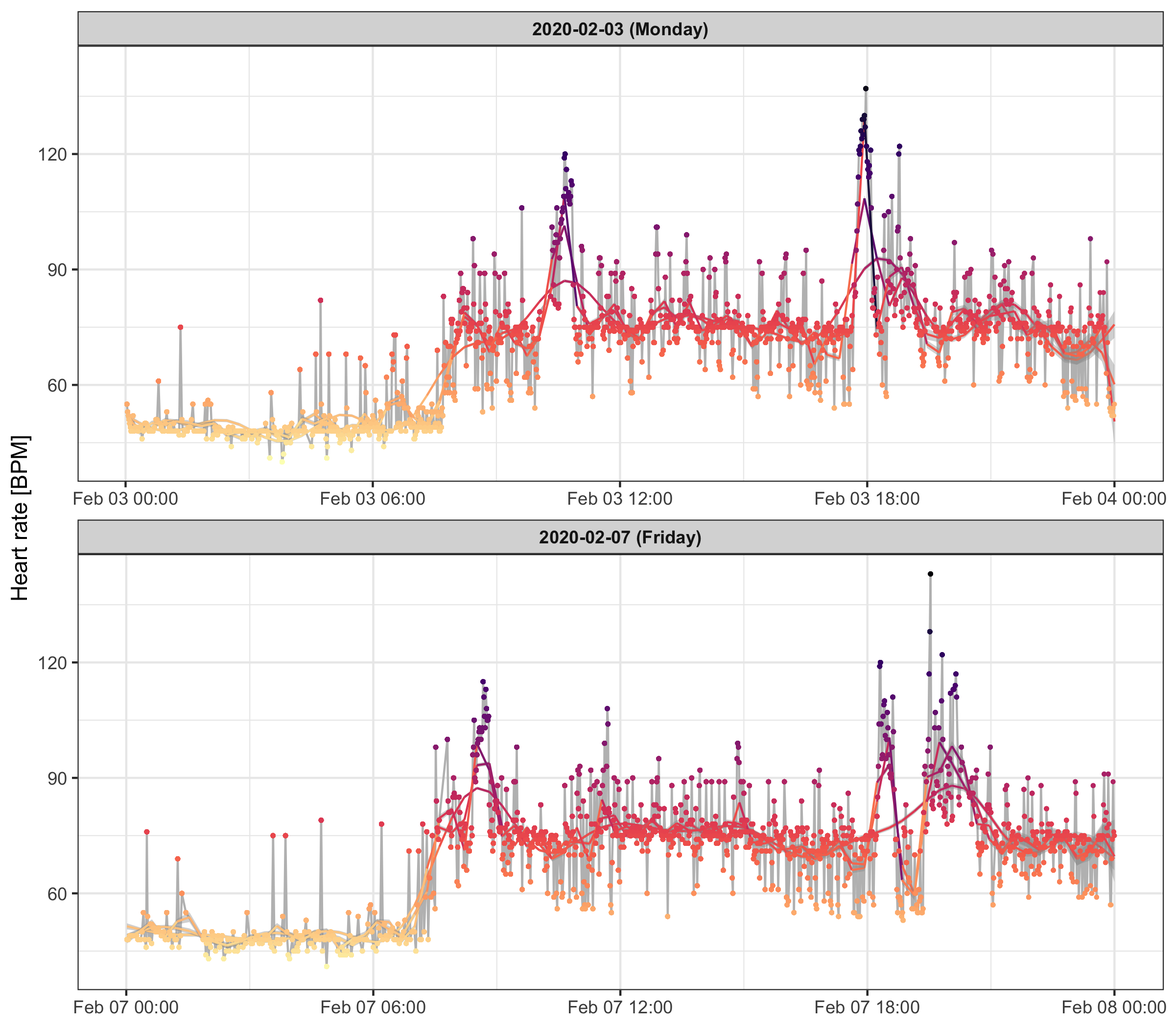
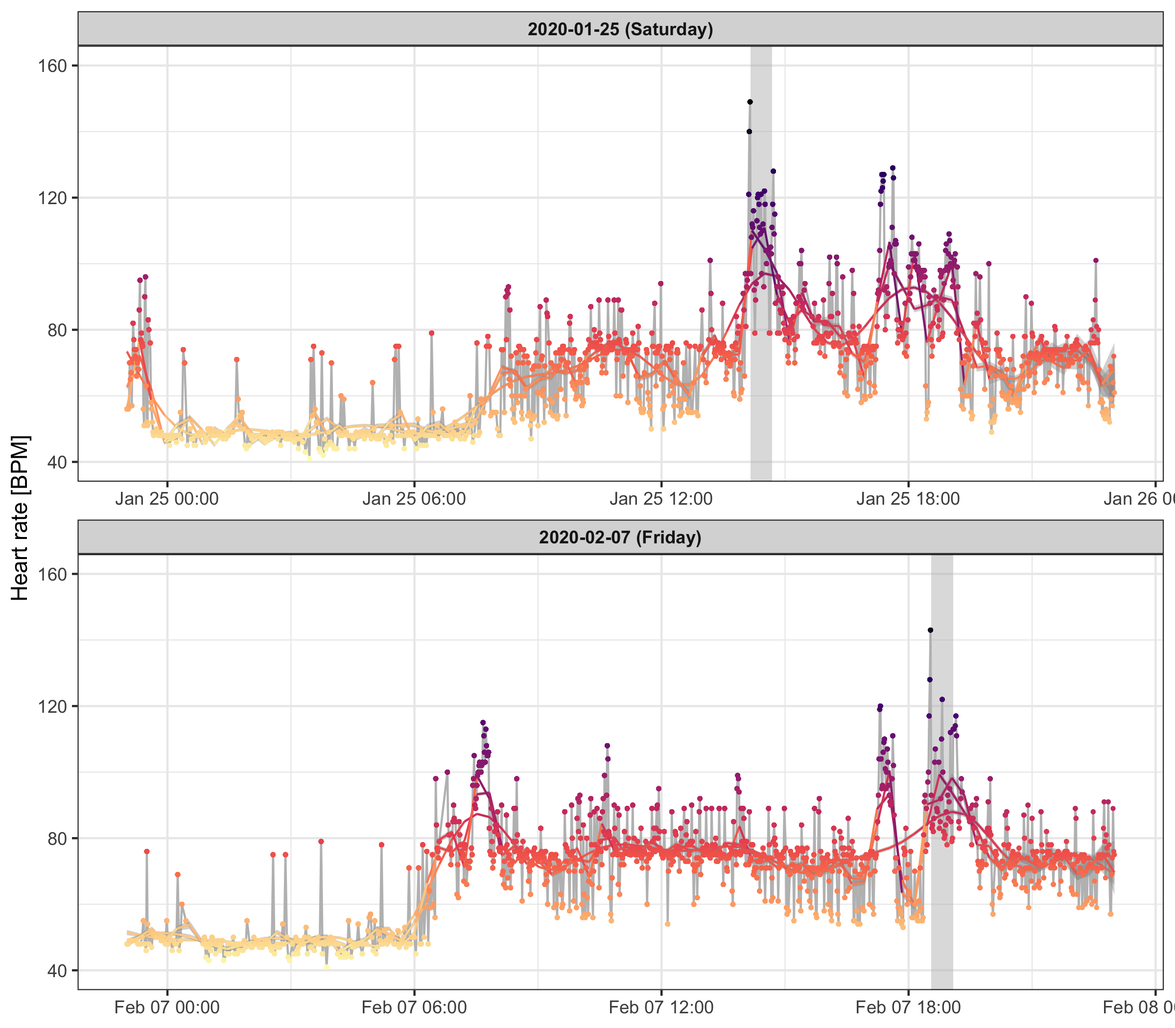
Just do it.

diff --git a/projects/health_data_from_apple_health/index.html b/projects/health_data_from_apple_health/index.html
@@ -97,6 +97,14 @@ You will receive all the data in a file called <code>export.zip</code>, which, w
 Then, we transform it into a tibble using the <code>XML::xmlAttrsToDataFrame()</code> function.</p>
 <div class="highlight"><pre style="background-color:#fff;-moz-tab-size:2;-o-tab-size:2;tab-size:2"><code class="language-r" data-lang="r">xml <span style="color:#000;font-weight:bold">&lt;-</span> XML<span style="color:#000;font-weight:bold">::</span><span style="color:#900;font-weight:bold">xmlParse</span>(<span style="color:#d14">&#39;</span><span style="color:#d14">export.xml&#39;</span>)
 data <span style="color:#000;font-weight:bold">&lt;-</span> XML<span style="color:#000;font-weight:bold">:::</span><span style="color:#900;font-weight:bold">xmlAttrsToDataFrame</span>(xml[<span style="color:#d14">&#39;</span><span style="color:#d14">//Record&#39;</span>]) <span style="color:#000;font-weight:bold">%&gt;%</span> <span style="color:#900;font-weight:bold">as_tibble</span>()
+</code></pre></div><p>We also export my workout sessions which I recorded with <a href="https://streaksworkout.com">Streaks Workout</a>.</p>
+<div class="highlight"><pre style="background-color:#fff;-moz-tab-size:2;-o-tab-size:2;tab-size:2"><code class="language-r" data-lang="r">workouts <span style="color:#000;font-weight:bold">&lt;-</span> <span style="color:#900;font-weight:bold">read_csv</span>(<span style="color:#d14">&#39;</span><span style="color:#d14">streaks-workout.csv&#39;</span>) <span style="color:#000;font-weight:bold">%&gt;%</span>
+  <span style="color:#900;font-weight:bold">filter</span>(<span style="color:#000;font-weight:bold">!</span><span style="color:#900;font-weight:bold">is.na</span>(device_name)) <span style="color:#000;font-weight:bold">%&gt;%</span>
+  <span style="color:#900;font-weight:bold">mutate</span>(
+    date <span style="color:#000;font-weight:bold">=</span> <span style="color:#900;font-weight:bold">format</span>(starting_time, <span style="color:#d14">&#39;</span><span style="color:#d14">%Y-%m-%d&#39;</span>),
+    dayofweek <span style="color:#000;font-weight:bold">=</span> <span style="color:#900;font-weight:bold">wday</span>(starting_time, label <span style="color:#000;font-weight:bold">=</span> <span style="color:#000;font-weight:bold">TRUE</span>, abbr <span style="color:#000;font-weight:bold">=</span> <span style="color:#000;font-weight:bold">FALSE</span>),
+    date_and_day <span style="color:#000;font-weight:bold">=</span> <span style="color:#900;font-weight:bold">paste0</span>(date, <span style="color:#d14">&#39;</span><span style="color:#d14"> (&#39;</span>, dayofweek, <span style="color:#d14">&#39;</span><span style="color:#d14">)&#39;</span>)
+  )
 </code></pre></div><h2 id="heart-rate">Heart rate</h2>
 <p>My heart rate is recorded once a minute.</p>
 <div class="highlight"><pre style="background-color:#fff;-moz-tab-size:2;-o-tab-size:2;tab-size:2"><code class="language-r" data-lang="r">data_heart_rate <span style="color:#000;font-weight:bold">&lt;-</span> data <span style="color:#000;font-weight:bold">%&gt;%</span>
@@ -115,17 +123,23 @@ data <span style="color:#000;font-weight:bold">&lt;-</span> XML<span style="colo
     value <span style="color:#000;font-weight:bold">=</span> value <span style="color:#000;font-weight:bold">%&gt;%</span> <span style="color:#900;font-weight:bold">as.character</span>() <span style="color:#000;font-weight:bold">%&gt;%</span> <span style="color:#900;font-weight:bold">as.numeric</span>()
   )
 </code></pre></div><h3 id="profile-over-the-day">Profile over the day</h3>
-<p>We use different values for <code>k</code> in the <code>geom_smooth()</code> call to control how smooth the line of the GAM should be.</p>
+<p>We use different values for <code>k</code> in the <code>geom_smooth()</code> call to control how smooth the line of the GAM should be.
+Workout sessions are marked as grey areas.</p>
 <div class="highlight"><pre style="background-color:#fff;-moz-tab-size:2;-o-tab-size:2;tab-size:2"><code class="language-r" data-lang="r">p <span style="color:#000;font-weight:bold">&lt;-</span> data_heart_rate <span style="color:#000;font-weight:bold">%&gt;%</span>
-  <span style="color:#900;font-weight:bold">filter</span>(date <span style="color:#000;font-weight:bold">%in%</span> <span style="color:#900;font-weight:bold">c</span>(<span style="color:#d14">&#39;</span><span style="color:#d14">2020-02-03&#39;</span>,<span style="color:#d14">&#39;</span><span style="color:#d14">2020-02-07&#39;</span>)) <span style="color:#000;font-weight:bold">%&gt;%</span>
-  <span style="color:#900;font-weight:bold">ggplot</span>(<span style="color:#900;font-weight:bold">aes</span>(endDate, value)) <span style="color:#000;font-weight:bold">+</span>
-  <span style="color:#900;font-weight:bold">geom_line</span>(size <span style="color:#000;font-weight:bold">=</span> <span style="color:#099">0.5</span>, color <span style="color:#000;font-weight:bold">=</span> <span style="color:#d14">&#39;</span><span style="color:#d14">grey&#39;</span>) <span style="color:#000;font-weight:bold">+</span>
-  <span style="color:#900;font-weight:bold">geom_smooth</span>(<span style="color:#900;font-weight:bold">aes</span>(color <span style="color:#000;font-weight:bold">=</span> ..y..), method <span style="color:#000;font-weight:bold">=</span> <span style="color:#d14">&#39;</span><span style="color:#d14">gam&#39;</span>, formula <span style="color:#000;font-weight:bold">=</span> y <span style="color:#000;font-weight:bold">~</span> <span style="color:#900;font-weight:bold">s</span>(x, k <span style="color:#000;font-weight:bold">=</span> <span style="color:#099">20</span>), size <span style="color:#000;font-weight:bold">=</span> <span style="color:#099">0.5</span>) <span style="color:#000;font-weight:bold">+</span>
-  <span style="color:#900;font-weight:bold">geom_smooth</span>(<span style="color:#900;font-weight:bold">aes</span>(color <span style="color:#000;font-weight:bold">=</span> ..y..), method <span style="color:#000;font-weight:bold">=</span> <span style="color:#d14">&#39;</span><span style="color:#d14">gam&#39;</span>, formula <span style="color:#000;font-weight:bold">=</span> y <span style="color:#000;font-weight:bold">~</span> <span style="color:#900;font-weight:bold">s</span>(x, k <span style="color:#000;font-weight:bold">=</span> <span style="color:#099">50</span>), size <span style="color:#000;font-weight:bold">=</span> <span style="color:#099">0.5</span>) <span style="color:#000;font-weight:bold">+</span>
-  <span style="color:#900;font-weight:bold">geom_smooth</span>(<span style="color:#900;font-weight:bold">aes</span>(color <span style="color:#000;font-weight:bold">=</span> ..y..), method <span style="color:#000;font-weight:bold">=</span> <span style="color:#d14">&#39;</span><span style="color:#d14">gam&#39;</span>, formula <span style="color:#000;font-weight:bold">=</span> y <span style="color:#000;font-weight:bold">~</span> <span style="color:#900;font-weight:bold">s</span>(x, k <span style="color:#000;font-weight:bold">=</span> <span style="color:#099">100</span>), size <span style="color:#000;font-weight:bold">=</span> <span style="color:#099">0.5</span>) <span style="color:#000;font-weight:bold">+</span>
-  <span style="color:#900;font-weight:bold">geom_point</span>(<span style="color:#900;font-weight:bold">aes</span>(color <span style="color:#000;font-weight:bold">=</span> value), size <span style="color:#000;font-weight:bold">=</span> <span style="color:#099">0.5</span>) <span style="color:#000;font-weight:bold">+</span>
+  <span style="color:#900;font-weight:bold">filter</span>(date <span style="color:#000;font-weight:bold">%in%</span> <span style="color:#900;font-weight:bold">c</span>(<span style="color:#d14">&#39;</span><span style="color:#d14">2020-01-25&#39;</span>,<span style="color:#d14">&#39;</span><span style="color:#d14">2020-02-07&#39;</span>)) <span style="color:#000;font-weight:bold">%&gt;%</span>
+  <span style="color:#900;font-weight:bold">ggplot</span>() <span style="color:#000;font-weight:bold">+</span>
+  <span style="color:#900;font-weight:bold">geom_rect</span>(
+    data <span style="color:#000;font-weight:bold">=</span> workouts <span style="color:#000;font-weight:bold">%&gt;%</span> <span style="color:#900;font-weight:bold">filter</span>(date <span style="color:#000;font-weight:bold">%in%</span> <span style="color:#900;font-weight:bold">c</span>(<span style="color:#d14">&#39;</span><span style="color:#d14">2020-01-25&#39;</span>,<span style="color:#d14">&#39;</span><span style="color:#d14">2020-02-07&#39;</span>)),
+    <span style="color:#900;font-weight:bold">aes</span>(xmin <span style="color:#000;font-weight:bold">=</span> starting_time, xmax <span style="color:#000;font-weight:bold">=</span> finishing_time, ymin <span style="color:#000;font-weight:bold">=</span> <span style="color:#000;font-weight:bold">-</span><span style="color:#000;font-weight:bold">Inf</span>, ymax <span style="color:#000;font-weight:bold">=</span> <span style="color:#000;font-weight:bold">Inf</span>),
+    fill <span style="color:#000;font-weight:bold">=</span> <span style="color:#d14">&#34;</span><span style="color:#d14">grey&#34;</span>, alpha <span style="color:#000;font-weight:bold">=</span> <span style="color:#099">0.5</span>
+  ) <span style="color:#000;font-weight:bold">+</span>
+  <span style="color:#900;font-weight:bold">geom_line</span>(<span style="color:#900;font-weight:bold">aes</span>(x <span style="color:#000;font-weight:bold">=</span> endDate, y <span style="color:#000;font-weight:bold">=</span> value), size <span style="color:#000;font-weight:bold">=</span> <span style="color:#099">0.5</span>, color <span style="color:#000;font-weight:bold">=</span> <span style="color:#d14">&#39;</span><span style="color:#d14">grey&#39;</span>) <span style="color:#000;font-weight:bold">+</span>
+  <span style="color:#900;font-weight:bold">geom_smooth</span>(<span style="color:#900;font-weight:bold">aes</span>(x <span style="color:#000;font-weight:bold">=</span> endDate, y <span style="color:#000;font-weight:bold">=</span> value, color <span style="color:#000;font-weight:bold">=</span> ..y..), method <span style="color:#000;font-weight:bold">=</span> <span style="color:#d14">&#39;</span><span style="color:#d14">gam&#39;</span>, formula <span style="color:#000;font-weight:bold">=</span> y <span style="color:#000;font-weight:bold">~</span> <span style="color:#900;font-weight:bold">s</span>(x, k <span style="color:#000;font-weight:bold">=</span> <span style="color:#099">20</span>), size <span style="color:#000;font-weight:bold">=</span> <span style="color:#099">0.5</span>) <span style="color:#000;font-weight:bold">+</span>
+  <span style="color:#900;font-weight:bold">geom_smooth</span>(<span style="color:#900;font-weight:bold">aes</span>(x <span style="color:#000;font-weight:bold">=</span> endDate, y <span style="color:#000;font-weight:bold">=</span> value, color <span style="color:#000;font-weight:bold">=</span> ..y..), method <span style="color:#000;font-weight:bold">=</span> <span style="color:#d14">&#39;</span><span style="color:#d14">gam&#39;</span>, formula <span style="color:#000;font-weight:bold">=</span> y <span style="color:#000;font-weight:bold">~</span> <span style="color:#900;font-weight:bold">s</span>(x, k <span style="color:#000;font-weight:bold">=</span> <span style="color:#099">50</span>), size <span style="color:#000;font-weight:bold">=</span> <span style="color:#099">0.5</span>) <span style="color:#000;font-weight:bold">+</span>
+  <span style="color:#900;font-weight:bold">geom_smooth</span>(<span style="color:#900;font-weight:bold">aes</span>(x <span style="color:#000;font-weight:bold">=</span> endDate, y <span style="color:#000;font-weight:bold">=</span> value, color <span style="color:#000;font-weight:bold">=</span> ..y..), method <span style="color:#000;font-weight:bold">=</span> <span style="color:#d14">&#39;</span><span style="color:#d14">gam&#39;</span>, formula <span style="color:#000;font-weight:bold">=</span> y <span style="color:#000;font-weight:bold">~</span> <span style="color:#900;font-weight:bold">s</span>(x, k <span style="color:#000;font-weight:bold">=</span> <span style="color:#099">100</span>), size <span style="color:#000;font-weight:bold">=</span> <span style="color:#099">0.5</span>) <span style="color:#000;font-weight:bold">+</span>
+  <span style="color:#900;font-weight:bold">geom_point</span>(<span style="color:#900;font-weight:bold">aes</span>(x <span style="color:#000;font-weight:bold">=</span> endDate, y <span style="color:#000;font-weight:bold">=</span> value, color <span style="color:#000;font-weight:bold">=</span> value), size <span style="color:#000;font-weight:bold">=</span> <span style="color:#099">0.5</span>) <span style="color:#000;font-weight:bold">+</span>
   <span style="color:#900;font-weight:bold">scale_color_viridis</span>(option <span style="color:#000;font-weight:bold">=</span> <span style="color:#d14">&#39;</span><span style="color:#d14">magma&#39;</span>, direction <span style="color:#000;font-weight:bold">=</span> <span style="color:#099">-1</span>) <span style="color:#000;font-weight:bold">+</span>
-  <span style="color:#900;font-weight:bold">scale_y_continuous</span>(name <span style="color:#000;font-weight:bold">=</span> <span style="color:#d14">&#39;</span><span style="color:#d14">Heart rate [BPM]&#39;</span>) <span style="color:#000;font-weight:bold">+</span>
+  <span style="color:#900;font-weight:bold">scale_y_continuous</span>(name <span style="color:#000;font-weight:bold">=</span> <span style="color:#d14">&#39;</span><span style="color:#d14">Heart rate [BPM]&#39;</span>, limits <span style="color:#000;font-weight:bold">=</span> <span style="color:#900;font-weight:bold">c</span>(<span style="color:#099">40</span>,<span style="color:#099">160</span>)) <span style="color:#000;font-weight:bold">+</span>
   <span style="color:#900;font-weight:bold">theme_bw</span>() <span style="color:#000;font-weight:bold">+</span>
   <span style="color:#900;font-weight:bold">theme</span>(
     axis.title.x <span style="color:#000;font-weight:bold">=</span> <span style="color:#900;font-weight:bold">element_blank</span>(),
@@ -135,9 +149,11 @@ data <span style="color:#000;font-weight:bold">&lt;-</span> XML<span style="colo
   <span style="color:#900;font-weight:bold">facet_wrap</span>(<span style="color:#000;font-weight:bold">~</span>date_and_day, ncol <span style="color:#000;font-weight:bold">=</span> <span style="color:#099">1</span>, scales <span style="color:#000;font-weight:bold">=</span> <span style="color:#d14">&#39;</span><span style="color:#d14">free_x&#39;</span>)
 <span style="color:#900;font-weight:bold">ggsave</span>(<span style="color:#d14">&#39;</span><span style="color:#d14">heart_rate_profile_day.png&#39;</span>, p, height <span style="color:#000;font-weight:bold">=</span> <span style="color:#099">7</span>, width <span style="color:#000;font-weight:bold">=</span> <span style="color:#099">8</span>)
 </code></pre></div>
-
-<figure>
-  <img src="/images/projects/health_data/heart_rate_profile_day.png" style="width: 100%"/>
+<figure >
+  
+      <img src="/images/projects/health_data/heart_rate_profile_day.png"  style="width: 100%;" />
+  
+  
 </figure>
 
 
@@ -159,9 +175,11 @@ data <span style="color:#000;font-weight:bold">&lt;-</span> XML<span style="colo
   )
 <span style="color:#900;font-weight:bold">ggsave</span>(<span style="color:#d14">&#39;</span><span style="color:#d14">heart_rate_heatmap.png&#39;</span>, p, height <span style="color:#000;font-weight:bold">=</span> <span style="color:#099">4</span>, width <span style="color:#000;font-weight:bold">=</span> <span style="color:#099">9</span>)
 </code></pre></div>
-
-<figure>
-  <img src="/images/projects/health_data/heart_rate_heatmap.png" style="width: 100%"/>
+<figure >
+  
+      <img src="/images/projects/health_data/heart_rate_heatmap.png"  style="width: 100%;" />
+  
+  
 </figure>
 
 
@@ -228,9 +246,11 @@ data_sleep<span style="color:#000;font-weight:bold">$</span>night <span style="c
   )
 <span style="color:#900;font-weight:bold">ggsave</span>(<span style="color:#d14">&#39;</span><span style="color:#d14">sleep_by_night.png&#39;</span>, p, height <span style="color:#000;font-weight:bold">=</span> <span style="color:#099">5</span>, width <span style="color:#000;font-weight:bold">=</span> <span style="color:#099">12</span>)
 </code></pre></div>
-
-<figure>
-  <img src="/images/projects/health_data/sleep_by_night.png" style="width: 100%"/>
+<figure >
+  
+      <img src="/images/projects/health_data/sleep_by_night.png"  style="width: 100%;" />
+  
+  
 </figure>
 
 
@@ -268,9 +288,11 @@ data_sleep<span style="color:#000;font-weight:bold">$</span>night <span style="c
   <span style="color:#900;font-weight:bold">theme</span>(axis.text.x <span style="color:#000;font-weight:bold">=</span> <span style="color:#900;font-weight:bold">element_text</span>(angle <span style="color:#000;font-weight:bold">=</span> <span style="color:#099">45</span>, hjust <span style="color:#000;font-weight:bold">=</span> <span style="color:#099">1</span>))
 <span style="color:#900;font-weight:bold">ggsave</span>(<span style="color:#d14">&#39;</span><span style="color:#d14">total_steps_by_day.png&#39;</span>, p, height <span style="color:#000;font-weight:bold">=</span> <span style="color:#099">5</span>, width <span style="color:#000;font-weight:bold">=</span> <span style="color:#099">12</span>)
 </code></pre></div>
-
-<figure>
-  <img src="/images/projects/health_data/total_steps_by_day.png" style="width: 100%"/>
+<figure >
+  
+      <img src="/images/projects/health_data/total_steps_by_day.png"  style="width: 100%;" />
+  
+  
 </figure>
 
 
@@ -303,9 +325,11 @@ data_sleep<span style="color:#000;font-weight:bold">$</span>night <span style="c
   <span style="color:#900;font-weight:bold">facet_wrap</span>(<span style="color:#000;font-weight:bold">~</span>start_date, ncol <span style="color:#000;font-weight:bold">=</span> <span style="color:#099">7</span>)
 <span style="color:#900;font-weight:bold">ggsave</span>(<span style="color:#d14">&#39;</span><span style="color:#d14">steps_in_time_by_day.png&#39;</span>, p, height <span style="color:#000;font-weight:bold">=</span> <span style="color:#099">4</span>, width <span style="color:#000;font-weight:bold">=</span> <span style="color:#099">16</span>)
 </code></pre></div>
-
-<figure>
-  <img src="/images/projects/health_data/steps_in_time_by_day.png" style="width: 100%"/>
+<figure >
+  
+      <img src="/images/projects/health_data/steps_in_time_by_day.png"  style="width: 100%;" />
+  
+  
 </figure>
 
 
@@ -337,9 +361,68 @@ data_sleep<span style="color:#000;font-weight:bold">$</span>night <span style="c
   <span style="color:#900;font-weight:bold">theme_bw</span>()
 <span style="color:#900;font-weight:bold">ggsave</span>(<span style="color:#d14">&#39;</span><span style="color:#d14">steps_in_time_collapsed_by_day.png&#39;</span>, p, height <span style="color:#000;font-weight:bold">=</span> <span style="color:#099">5</span>, width <span style="color:#000;font-weight:bold">=</span> <span style="color:#099">8</span>)
 </code></pre></div>
+<figure >
+  
+      <img src="/images/projects/health_data/steps_in_time_collapsed_by_day.png"  style="width: 100%;" />
+  
+  
+</figure>
 
-<figure>
-  <img src="/images/projects/health_data/steps_in_time_collapsed_by_day.png" style="width: 100%"/>
+
+<h2 id="workouts">Workouts</h2>
+<h3 id="calendar">Calendar</h3>
+<p>To plot highlight the days we worked in calendar style, we take advantage of the <code>ggcal()</code> function made by <a href="https://github.com/jayjacobs/ggcal"><code>jayjaycobs</code></a>.
+However, since we don't live in crazyland (no offense), we will adjust it so that the week starts on Monday.</p>
+<div class="highlight"><pre style="background-color:#fff;-moz-tab-size:2;-o-tab-size:2;tab-size:2"><code class="language-r" data-lang="r">ggcal <span style="color:#000;font-weight:bold">&lt;-</span> <span style="color:#900;font-weight:bold">function</span>(dates, fills) {
+  months <span style="color:#000;font-weight:bold">&lt;-</span> <span style="color:#900;font-weight:bold">format</span>(<span style="color:#900;font-weight:bold">seq</span>(<span style="color:#900;font-weight:bold">as.Date</span>(<span style="color:#d14">&#34;</span><span style="color:#d14">2016-01-01&#34;</span>), <span style="color:#900;font-weight:bold">as.Date</span>(<span style="color:#d14">&#34;</span><span style="color:#d14">2016-12-01&#34;</span>), by <span style="color:#000;font-weight:bold">=</span> <span style="color:#d14">&#34;</span><span style="color:#d14">1 month&#34;</span>), <span style="color:#d14">&#34;</span><span style="color:#d14">%B&#34;</span>)
+  mindate <span style="color:#000;font-weight:bold">&lt;-</span> <span style="color:#900;font-weight:bold">as.Date</span>(<span style="color:#900;font-weight:bold">format</span>(<span style="color:#900;font-weight:bold">min</span>(dates), <span style="color:#d14">&#34;</span><span style="color:#d14">%Y-%m-01&#34;</span>))
+  maxdate <span style="color:#000;font-weight:bold">&lt;-</span> (<span style="color:#900;font-weight:bold">seq</span>(<span style="color:#900;font-weight:bold">as.Date</span>(<span style="color:#900;font-weight:bold">format</span>(<span style="color:#900;font-weight:bold">max</span>(dates), <span style="color:#d14">&#34;</span><span style="color:#d14">%Y-%m-01&#34;</span>)), length.out <span style="color:#000;font-weight:bold">=</span> <span style="color:#099">2</span>, by <span style="color:#000;font-weight:bold">=</span> <span style="color:#d14">&#34;</span><span style="color:#d14">1 month&#34;</span>) <span style="color:#000;font-weight:bold">-</span> <span style="color:#099">1</span>)[2]
+  filler <span style="color:#000;font-weight:bold">&lt;-</span> <span style="color:#900;font-weight:bold">tibble</span>(date <span style="color:#000;font-weight:bold">=</span> <span style="color:#900;font-weight:bold">seq</span>(mindate, maxdate, by <span style="color:#000;font-weight:bold">=</span> <span style="color:#d14">&#34;</span><span style="color:#d14">1 day&#34;</span>))
+  t1 <span style="color:#000;font-weight:bold">&lt;-</span> <span style="color:#900;font-weight:bold">tibble</span>(date <span style="color:#000;font-weight:bold">=</span> dates, fill <span style="color:#000;font-weight:bold">=</span> fills) <span style="color:#000;font-weight:bold">%&gt;%</span>
+    <span style="color:#900;font-weight:bold">right_join</span>(filler, by <span style="color:#000;font-weight:bold">=</span> <span style="color:#d14">&#34;</span><span style="color:#d14">date&#34;</span>) <span style="color:#000;font-weight:bold">%&gt;%</span>
+    <span style="color:#900;font-weight:bold">mutate</span>(dow <span style="color:#000;font-weight:bold">=</span> <span style="color:#900;font-weight:bold">as.numeric</span>(<span style="color:#900;font-weight:bold">strftime</span>(<span style="color:#900;font-weight:bold">as.Date</span>(date, <span style="color:#d14">&#34;</span><span style="color:#d14">%Y-%m-%d&#34;</span>), <span style="color:#d14">&#34;</span><span style="color:#d14">%u&#34;</span>))) <span style="color:#000;font-weight:bold">%&gt;%</span>
+    <span style="color:#900;font-weight:bold">mutate</span>(month <span style="color:#000;font-weight:bold">=</span> <span style="color:#900;font-weight:bold">format</span>(date, <span style="color:#d14">&#34;</span><span style="color:#d14">%B&#34;</span>)) <span style="color:#000;font-weight:bold">%&gt;%</span>
+    <span style="color:#900;font-weight:bold">mutate</span>(woy <span style="color:#000;font-weight:bold">=</span> <span style="color:#900;font-weight:bold">as.numeric</span>(<span style="color:#900;font-weight:bold">format</span>(date, <span style="color:#d14">&#34;</span><span style="color:#d14">%W&#34;</span>))) <span style="color:#000;font-weight:bold">%&gt;%</span>
+    <span style="color:#900;font-weight:bold">mutate</span>(year <span style="color:#000;font-weight:bold">=</span> <span style="color:#900;font-weight:bold">as.numeric</span>(<span style="color:#900;font-weight:bold">format</span>(date, <span style="color:#d14">&#34;</span><span style="color:#d14">%Y&#34;</span>))) <span style="color:#000;font-weight:bold">%&gt;%</span>
+    <span style="color:#900;font-weight:bold">mutate</span>(month <span style="color:#000;font-weight:bold">=</span> <span style="color:#900;font-weight:bold">factor</span>(month, levels <span style="color:#000;font-weight:bold">=</span> months, ordered <span style="color:#000;font-weight:bold">=</span> <span style="color:#000;font-weight:bold">TRUE</span>)) <span style="color:#000;font-weight:bold">%&gt;%</span>
+    <span style="color:#900;font-weight:bold">arrange</span>(year, month) <span style="color:#000;font-weight:bold">%&gt;%</span>
+    <span style="color:#900;font-weight:bold">mutate</span>(monlabel <span style="color:#000;font-weight:bold">=</span> month)
+  <span style="color:#900;font-weight:bold">if </span>(<span style="color:#900;font-weight:bold">length</span>(<span style="color:#900;font-weight:bold">unique</span>(t1<span style="color:#000;font-weight:bold">$</span>year)) <span style="color:#000;font-weight:bold">&gt;</span> <span style="color:#099">1</span>) {
+    t1<span style="color:#000;font-weight:bold">$</span>monlabel <span style="color:#000;font-weight:bold">&lt;-</span> <span style="color:#900;font-weight:bold">paste</span>(t1<span style="color:#000;font-weight:bold">$</span>month, t1<span style="color:#000;font-weight:bold">$</span>year)
+  }
+  t2 <span style="color:#000;font-weight:bold">&lt;-</span> t1 <span style="color:#000;font-weight:bold">%&gt;%</span>
+    <span style="color:#900;font-weight:bold">mutate</span>(monlabel <span style="color:#000;font-weight:bold">=</span> <span style="color:#900;font-weight:bold">factor</span>(monlabel, ordered <span style="color:#000;font-weight:bold">=</span> <span style="color:#000;font-weight:bold">TRUE</span>)) <span style="color:#000;font-weight:bold">%&gt;%</span>
+    <span style="color:#900;font-weight:bold">mutate</span>(monlabel <span style="color:#000;font-weight:bold">=</span> <span style="color:#900;font-weight:bold">fct_inorder</span>(monlabel)) <span style="color:#000;font-weight:bold">%&gt;%</span>
+    <span style="color:#900;font-weight:bold">mutate</span>(monthweek <span style="color:#000;font-weight:bold">=</span> woy <span style="color:#000;font-weight:bold">-</span> <span style="color:#900;font-weight:bold">min</span>(woy), y <span style="color:#000;font-weight:bold">=</span> <span style="color:#900;font-weight:bold">max</span>(monthweek) <span style="color:#000;font-weight:bold">-</span> monthweek <span style="color:#000;font-weight:bold">+</span> <span style="color:#099">1</span>)
+  weekdays <span style="color:#000;font-weight:bold">&lt;-</span> <span style="color:#900;font-weight:bold">c</span>(<span style="color:#d14">&#34;</span><span style="color:#d14">M&#34;</span>, <span style="color:#d14">&#34;</span><span style="color:#d14">T&#34;</span>, <span style="color:#d14">&#34;</span><span style="color:#d14">W&#34;</span>, <span style="color:#d14">&#34;</span><span style="color:#d14">T&#34;</span>, <span style="color:#d14">&#34;</span><span style="color:#d14">F&#34;</span>, <span style="color:#d14">&#34;</span><span style="color:#d14">S&#34;</span>, <span style="color:#d14">&#34;</span><span style="color:#d14">S&#34;</span>)
+  <span style="color:#900;font-weight:bold">ggplot</span>(t2, <span style="color:#900;font-weight:bold">aes</span>(dow, y, fill <span style="color:#000;font-weight:bold">=</span> fill)) <span style="color:#000;font-weight:bold">+</span>
+    <span style="color:#900;font-weight:bold">geom_tile</span>(color <span style="color:#000;font-weight:bold">=</span> <span style="color:#d14">&#34;</span><span style="color:#d14">gray80&#34;</span>, show.legend <span style="color:#000;font-weight:bold">=</span> <span style="color:#000;font-weight:bold">FALSE</span>) <span style="color:#000;font-weight:bold">+</span>
+    <span style="color:#900;font-weight:bold">facet_wrap</span>(<span style="color:#000;font-weight:bold">~</span>monlabel, ncol <span style="color:#000;font-weight:bold">=</span> <span style="color:#099">3</span>, scales <span style="color:#000;font-weight:bold">=</span> <span style="color:#d14">&#34;</span><span style="color:#d14">free&#34;</span>) <span style="color:#000;font-weight:bold">+</span>
+    <span style="color:#900;font-weight:bold">scale_x_continuous</span>(expand <span style="color:#000;font-weight:bold">=</span> <span style="color:#900;font-weight:bold">c</span>(<span style="color:#099">0</span>, <span style="color:#099">0</span>), position <span style="color:#000;font-weight:bold">=</span> <span style="color:#d14">&#34;</span><span style="color:#d14">top&#34;</span>, breaks <span style="color:#000;font-weight:bold">=</span> <span style="color:#900;font-weight:bold">seq</span>(<span style="color:#099">1</span>, <span style="color:#099">7</span>), labels <span style="color:#000;font-weight:bold">=</span> weekdays) <span style="color:#000;font-weight:bold">+</span>
+    <span style="color:#900;font-weight:bold">scale_y_continuous</span>(expand <span style="color:#000;font-weight:bold">=</span> <span style="color:#900;font-weight:bold">c</span>(<span style="color:#099">0</span>, <span style="color:#099">0</span>)) <span style="color:#000;font-weight:bold">+</span>
+    <span style="color:#900;font-weight:bold">theme</span>(
+      panel.background <span style="color:#000;font-weight:bold">=</span> <span style="color:#900;font-weight:bold">element_rect</span>(fill <span style="color:#000;font-weight:bold">=</span> <span style="color:#000;font-weight:bold">NA</span>, color <span style="color:#000;font-weight:bold">=</span> <span style="color:#000;font-weight:bold">NA</span>),
+      strip.background <span style="color:#000;font-weight:bold">=</span> <span style="color:#900;font-weight:bold">element_rect</span>(fill <span style="color:#000;font-weight:bold">=</span> <span style="color:#000;font-weight:bold">NA</span>, color <span style="color:#000;font-weight:bold">=</span> <span style="color:#000;font-weight:bold">NA</span>),
+      strip.text.x <span style="color:#000;font-weight:bold">=</span> <span style="color:#900;font-weight:bold">element_text</span>(hjust <span style="color:#000;font-weight:bold">=</span> <span style="color:#099">0</span>, face <span style="color:#000;font-weight:bold">=</span> <span style="color:#d14">&#34;</span><span style="color:#d14">bold&#34;</span>),
+      legend.title <span style="color:#000;font-weight:bold">=</span> <span style="color:#900;font-weight:bold">element_blank</span>(),
+      axis.ticks <span style="color:#000;font-weight:bold">=</span> <span style="color:#900;font-weight:bold">element_blank</span>(),
+      axis.title <span style="color:#000;font-weight:bold">=</span> <span style="color:#900;font-weight:bold">element_blank</span>(),
+      axis.text.y <span style="color:#000;font-weight:bold">=</span> <span style="color:#900;font-weight:bold">element_blank</span>(),
+      strip.placement <span style="color:#000;font-weight:bold">=</span> <span style="color:#d14">&#34;</span><span style="color:#d14">outsite&#34;</span>
+    )
+}
+
+p <span style="color:#000;font-weight:bold">&lt;-</span> <span style="color:#900;font-weight:bold">ggcal</span>(
+  workouts<span style="color:#000;font-weight:bold">$</span>starting_time <span style="color:#000;font-weight:bold">%&gt;%</span> <span style="color:#900;font-weight:bold">as.Date</span>(),
+  <span style="color:#900;font-weight:bold">rep</span>(<span style="color:#d14">&#39;</span><span style="color:#d14">black&#39;</span>, <span style="color:#900;font-weight:bold">length</span>(workouts<span style="color:#000;font-weight:bold">$</span>starting_time))
+)
+<span style="color:#900;font-weight:bold">ggsave</span>(<span style="color:#d14">&#39;</span><span style="color:#d14">workouts_calendar.png&#39;</span>, p, height <span style="color:#000;font-weight:bold">=</span> <span style="color:#099">4.5</span>, width <span style="color:#000;font-weight:bold">=</span> <span style="color:#099">8</span>)
+</code></pre></div>
+<figure >
+  
+      <img src="/images/projects/health_data/workouts_calendar.png"  style="width: 100%;" />
+  
+  
 </figure>
 
 
